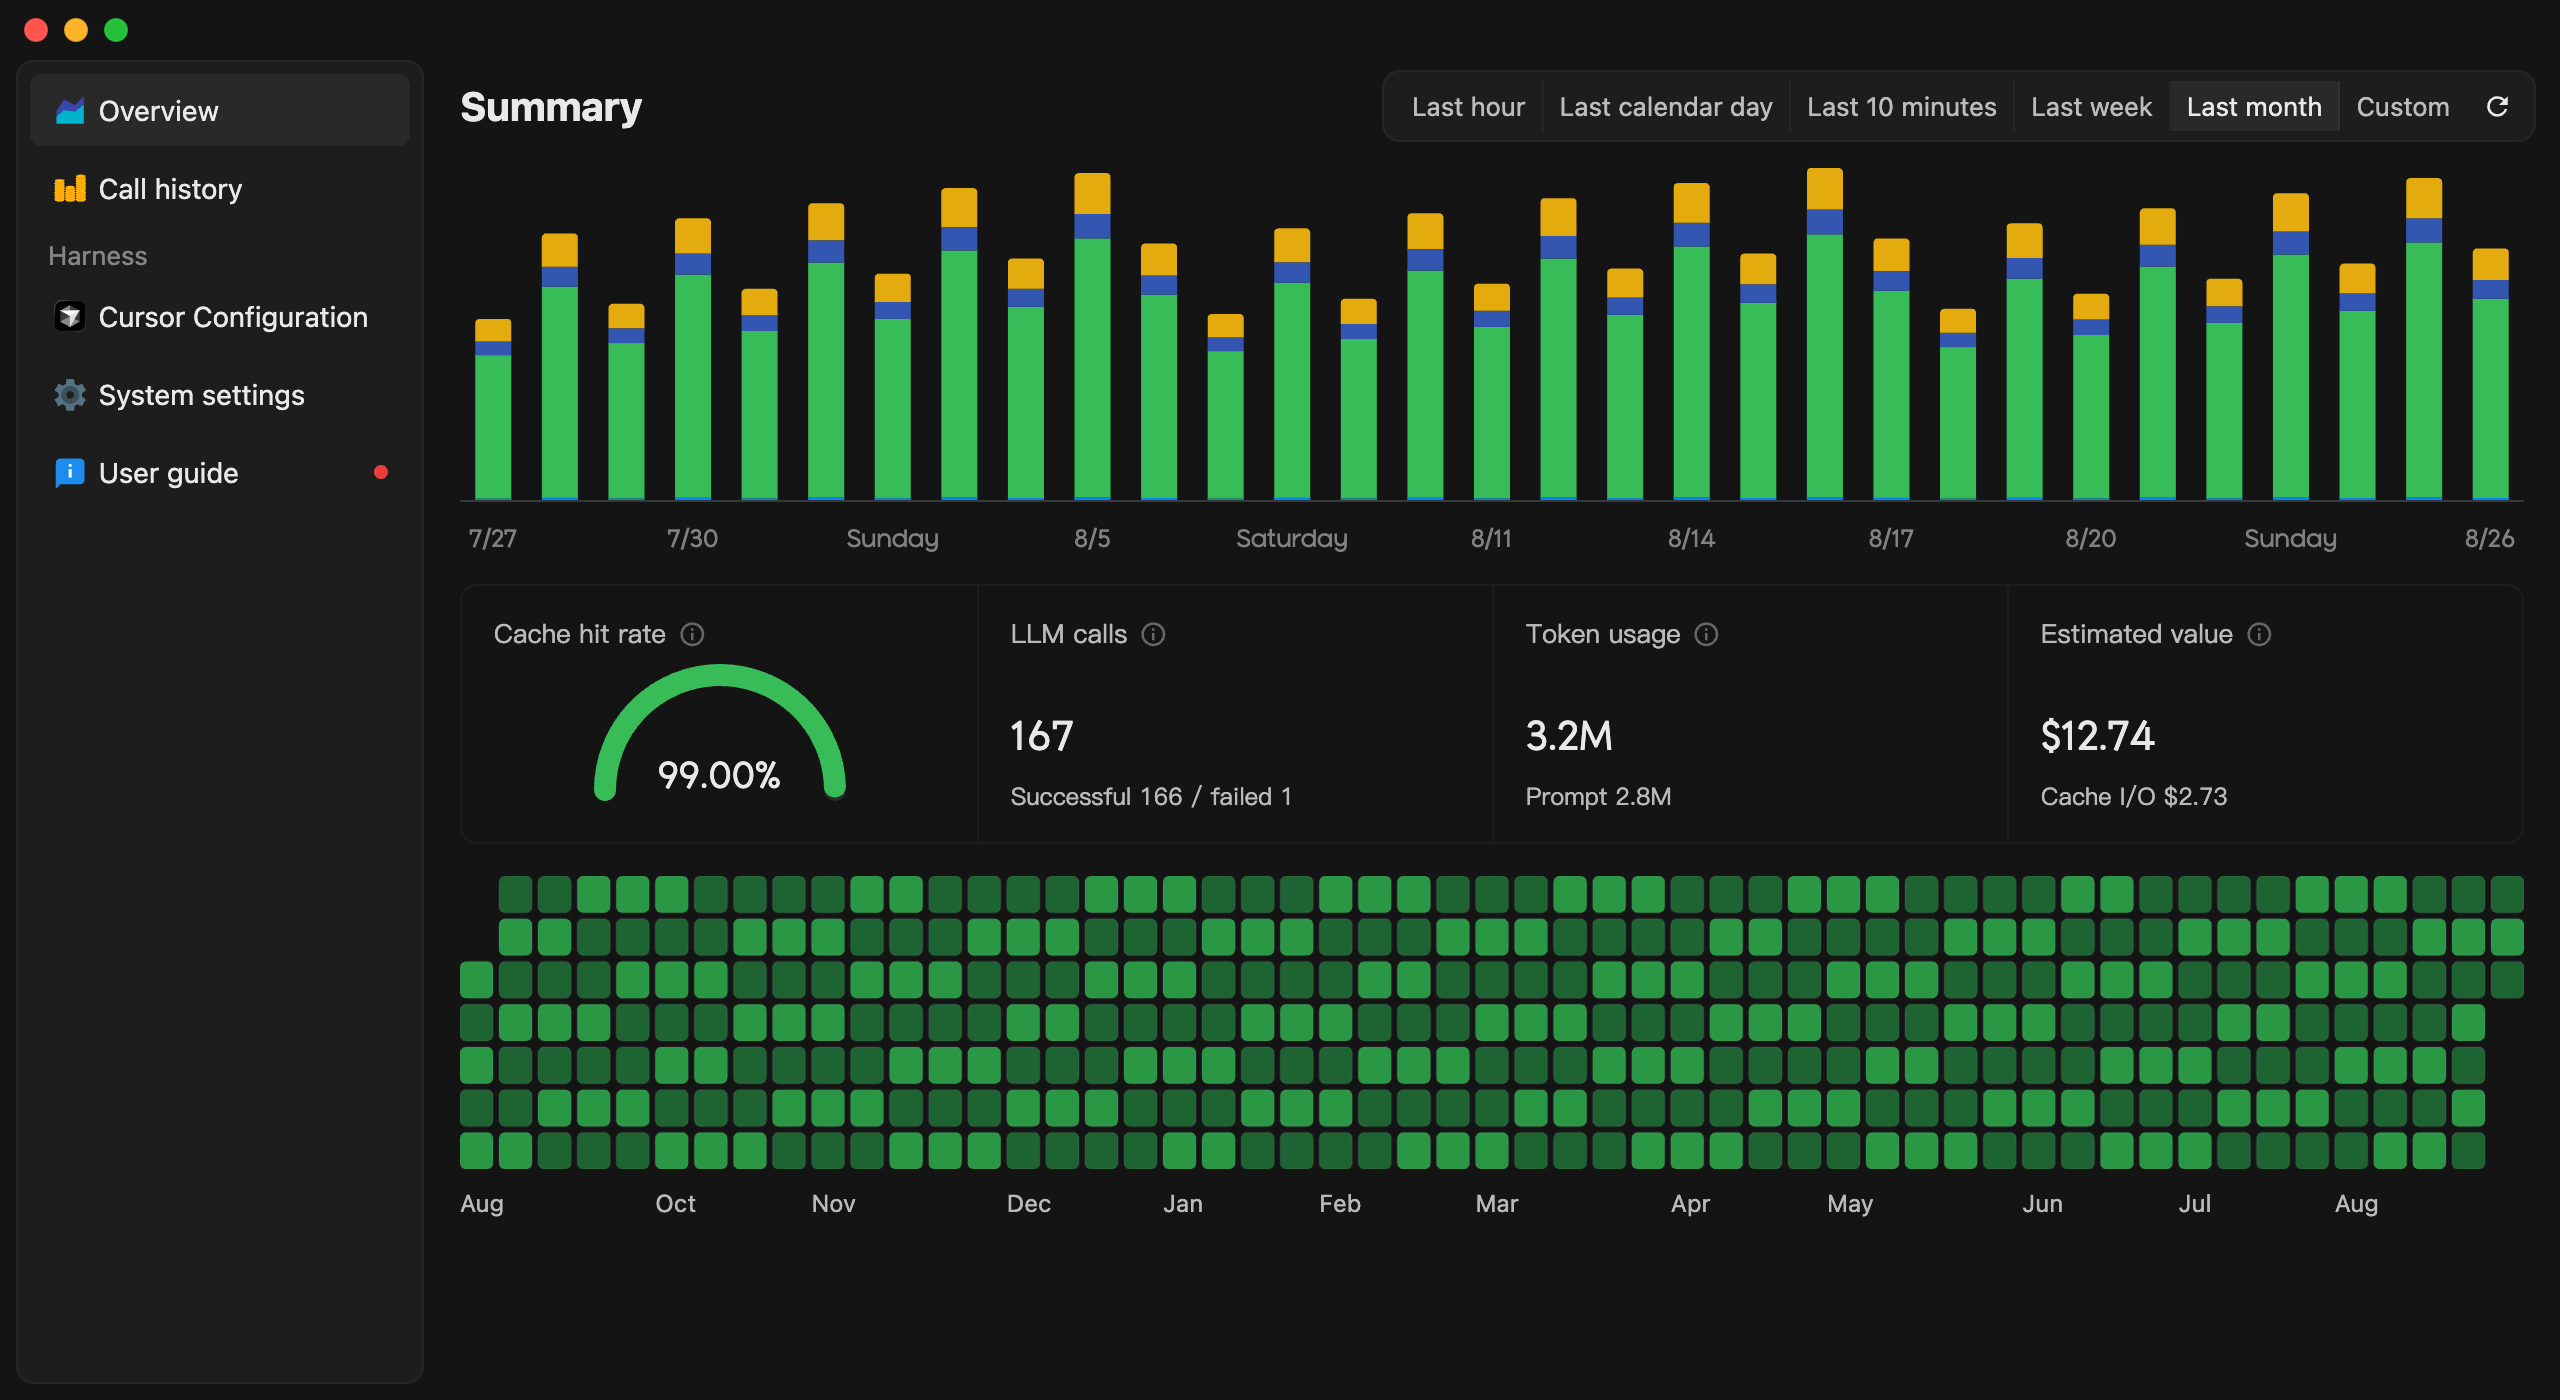
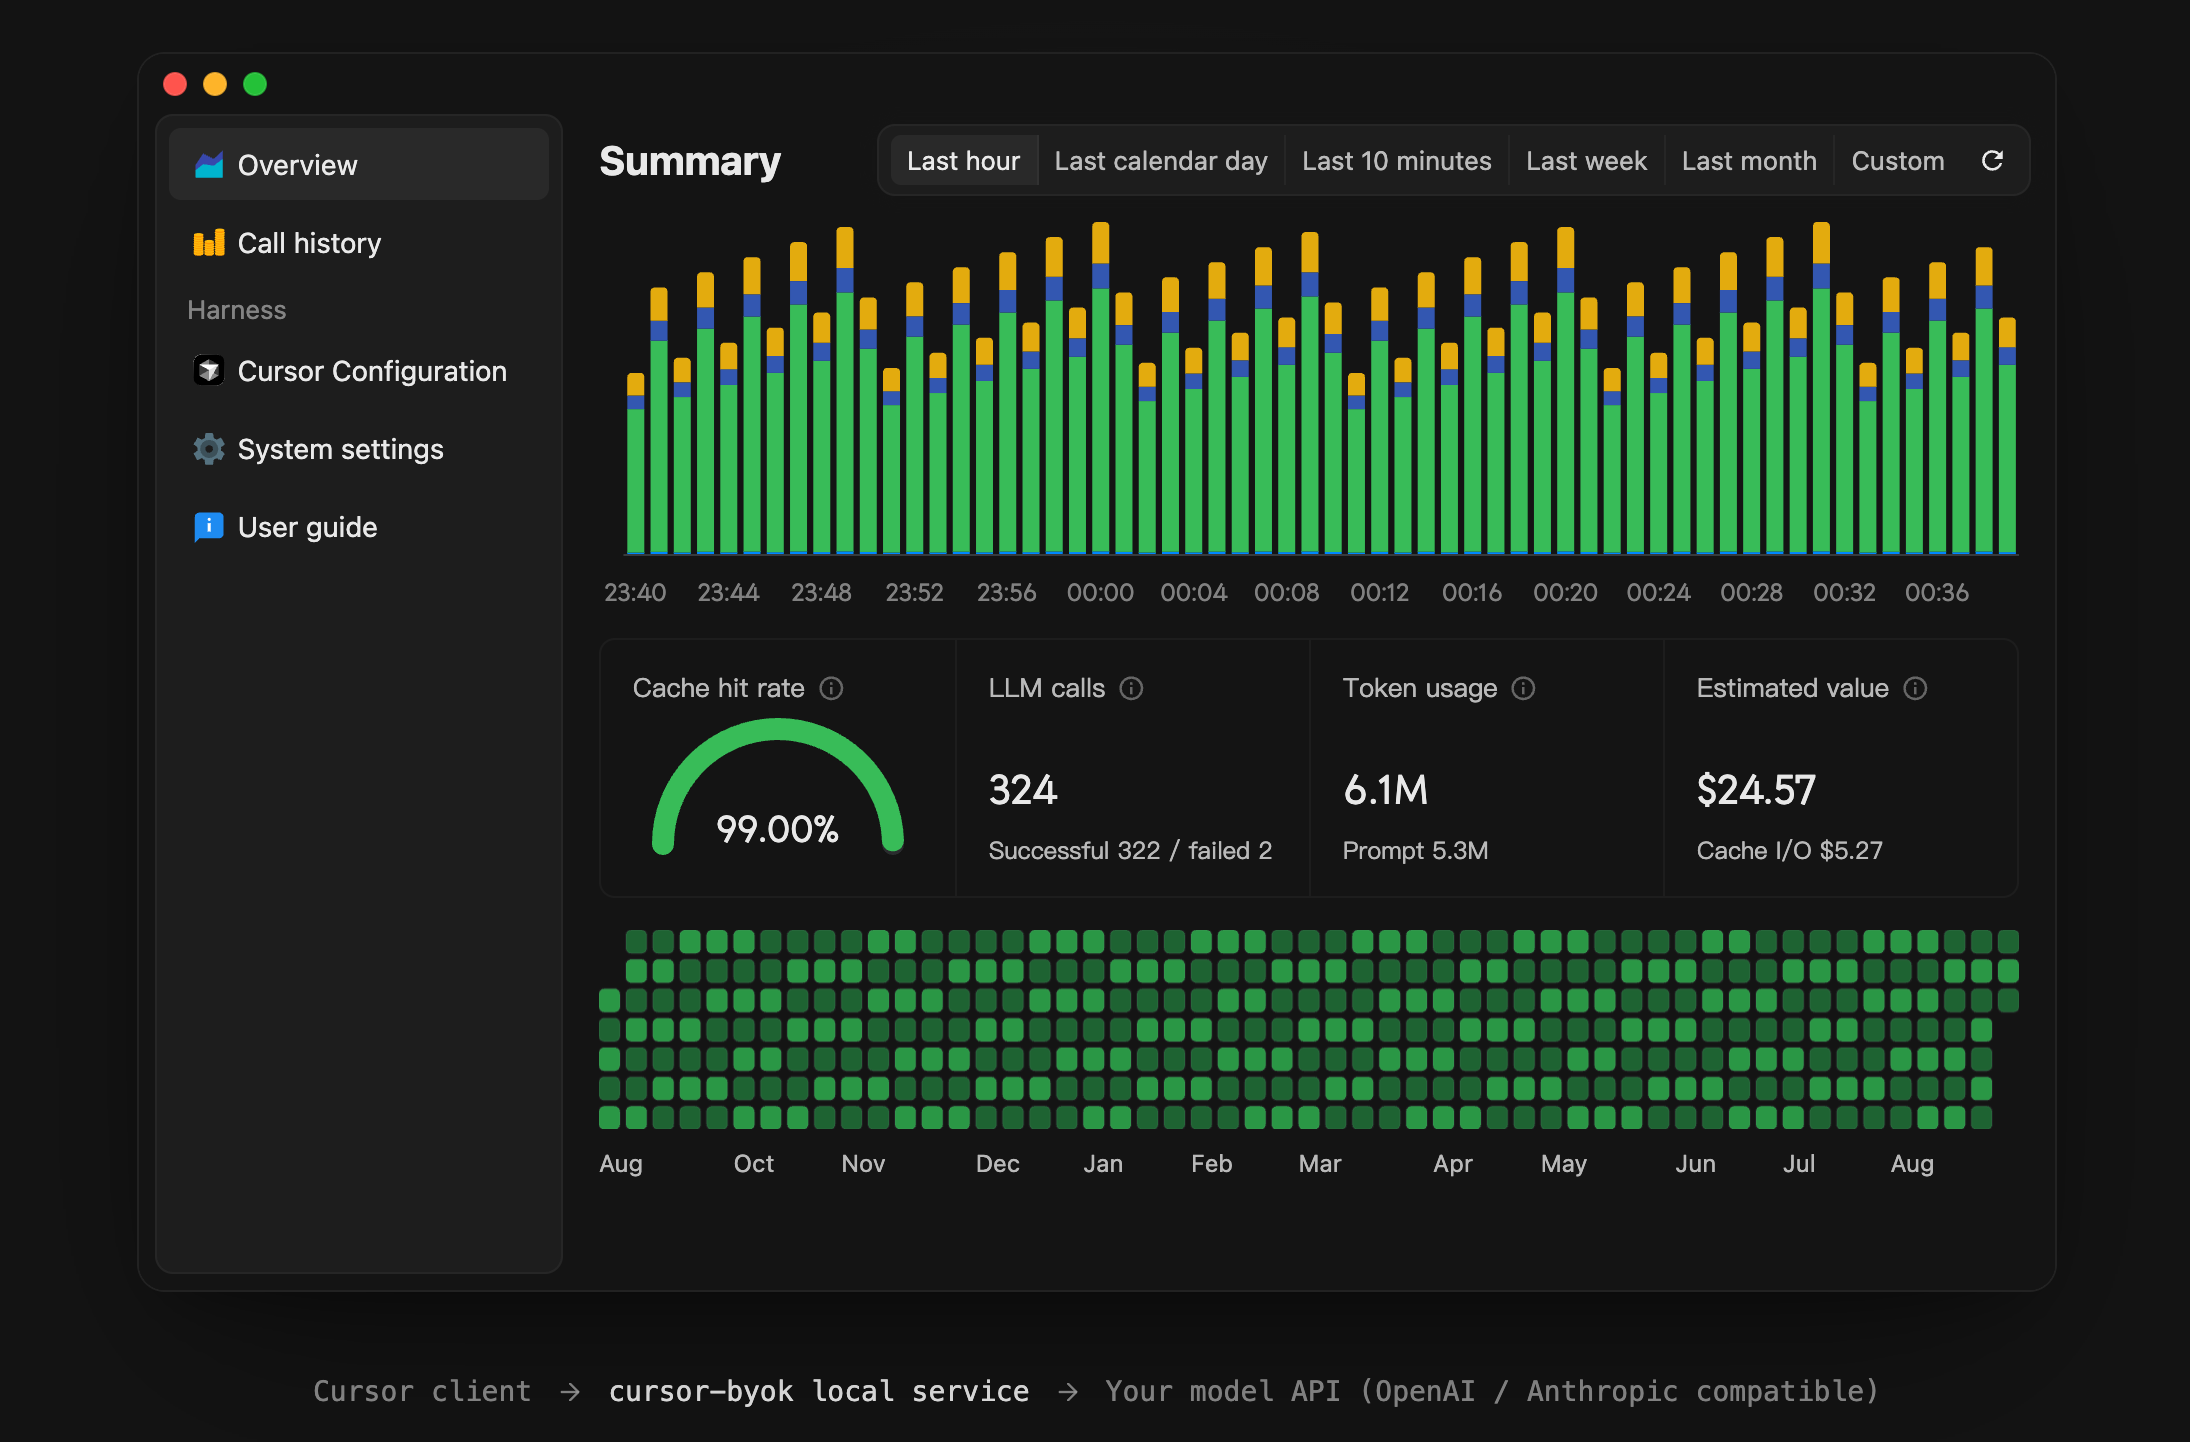
feat(docs): update configuration and improve caching for documentation site
- Added Cloudflare and OpenNext configurations to .gitignore.
- Updated next.config.mjs to disable image optimization for better performance with CDN.
- Modified fetchJson function in github.ts to use 'force-cache' for improved data fetching efficiency.
- Updated multiple image assets for the documentation site.

diff --git a/apps/docs/lib/github.ts b/apps/docs/lib/github.ts
@@ -7,9 +7,10 @@ export type RepoStats = {
 
 async function fetchJson(url: string): Promise<Record<string, unknown> | null> {
   try {
+    // 构建期取一次并静态化;数据随每次部署更新,运行时无需 ISR 缓存设施
     const res = await fetch(url, {
       headers: { Accept: 'application/vnd.github+json' },
-      next: { revalidate: 3600 },
+      cache: 'force-cache',
     });
     if (!res.ok) return null;
     return (await res.json()) as Record<string, unknown>;
